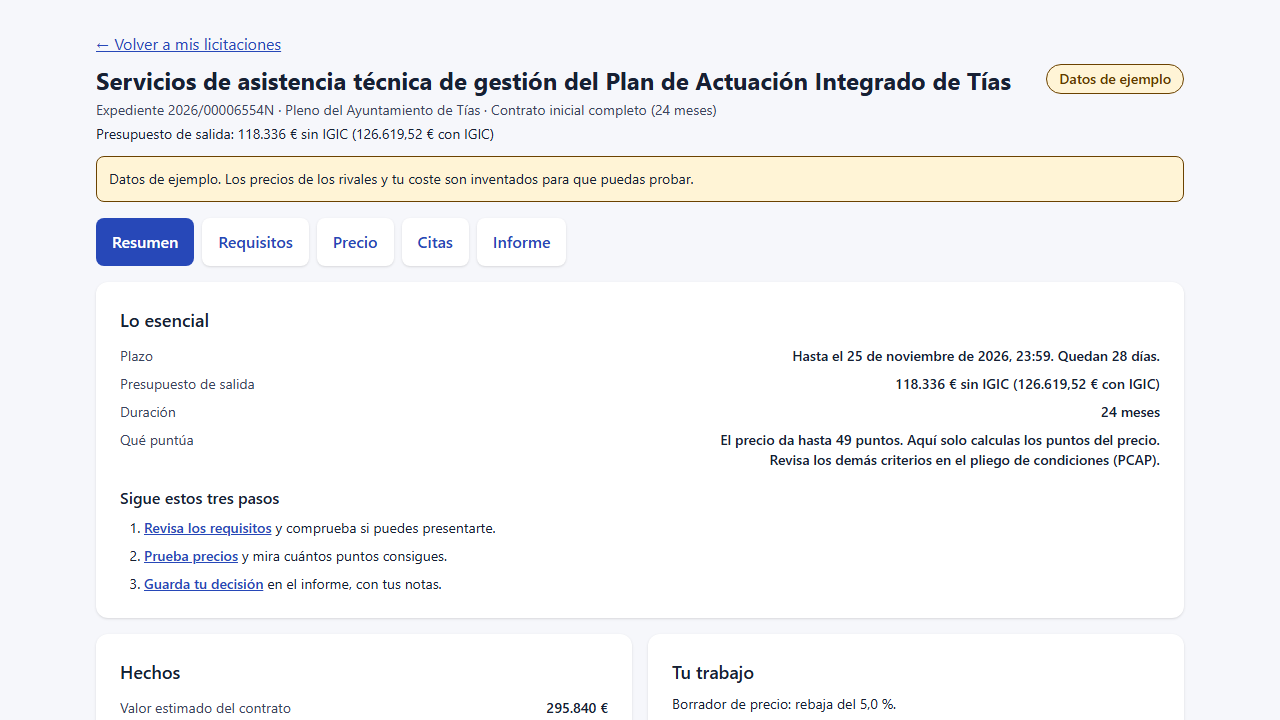
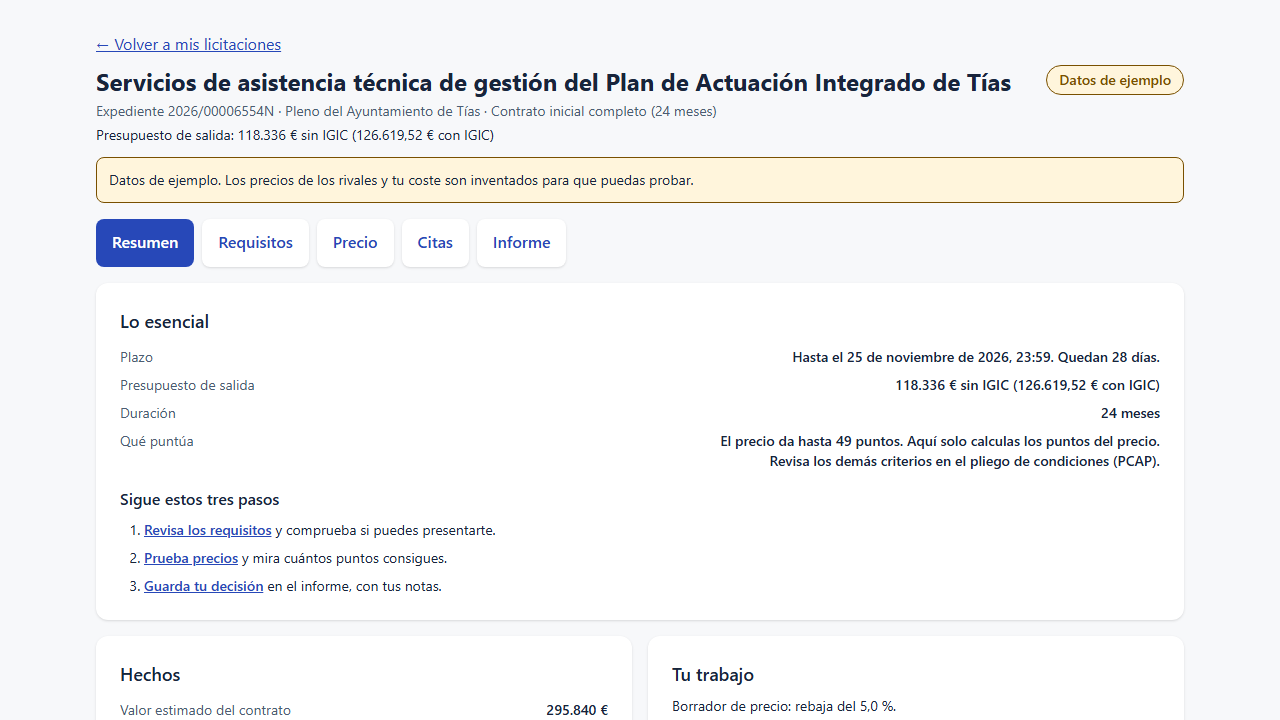
PKG-T14: tokens visuales prototipo + capturas regen

diff --git a/apps/web/src/styles.css b/apps/web/src/styles.css
@@ -1,20 +1,23 @@
 @import "tailwindcss";
 
 @theme {
-  --color-surface: #f6f7fb;
-  --color-ink: #172033;
-  --color-muted: #3a4560;
+  /* T14: ruta visual del diseno_anterior (prototipo :root). Sin piezas
+   * nuevas: solo valores. primary-hover/primary-ink no tienen
+   * equivalente en el prototipo y se conservan (contraste). */
+  --color-surface: #f7f8fa;
+  --color-ink: #18243b;
+  --color-muted: #4c5d73;
   --color-primary: #2748b8;
   --color-primary-hover: #1e3fa0;
   --color-primary-ink: #162d75;
-  --color-primary-soft: #e8efff;
-  --color-line: #e5e9f2;
-  --color-border: #c9d2e8;
-  --color-alert: #6b4200;
-  --color-warn-bg: #fff4d6;
-  --color-warn-ink: #5f3a00;
-  --color-error: #9c1f16;
-  --color-chart-profit: #1e7b3c;
+  --color-primary-soft: #edf1ff;
+  --color-line: #c8d1df;
+  --color-border: #c8d1df;
+  --color-alert: #795000;
+  --color-warn-bg: #fff5dc;
+  --color-warn-ink: #795000;
+  --color-error: #a52d28;
+  --color-chart-profit: #176046;
   --drawer-curve: cubic-bezier(0.32, 0.72, 0, 1);
 }
 
@@ -22,6 +25,7 @@ body {
   background: var(--color-surface);
   color: var(--color-ink);
   font-family: system-ui, -apple-system, "Segoe UI", sans-serif;
+  line-height: 1.55;
 }
 
 .tnum {
@@ -30,7 +34,7 @@ body {
 
 :focus-visible {
   outline: 3px solid var(--color-primary);
-  outline-offset: 2px;
+  outline-offset: 4px;
 }
 
 /* Long protocol tokens (hashes, decimals) must wrap inside table cells. */

diff --git a/tests/e2e/prototipo.spec.ts b/tests/e2e/prototipo.spec.ts
@@ -1,0 +1,26 @@
+import { expect, test } from "@playwright/test";
+import { installOfflineGuard, takeConsoleFailures } from "./helpers";
+
+// T14: la ruta visual del diseno_anterior vive en los estilos computados.
+// Sin piezas nuevas: solo tokens (color, interlineado, foco).
+test.afterEach(() => {
+  const failures = takeConsoleFailures();
+  expect(failures.consoleErrors, "console.error calls").toEqual([]);
+  expect(failures.pageErrors, "page errors").toEqual([]);
+});
+
+test("prototype tokens are live in computed styles", async ({ page }) => {
+  await installOfflineGuard(page);
+  await page.goto("/");
+  const body = page.locator("body");
+  await expect(body).toHaveCSS("background-color", "rgb(247, 248, 250)");
+  await expect(body).toHaveCSS("color", "rgb(24, 36, 59)");
+  await expect(body).toHaveCSS("line-height", "24.8px");
+  await expect(page.locator("header p").first()).toHaveCSS("color", "rgb(76, 93, 115)");
+
+  await page.keyboard.press("Tab");
+  const skip = page.getByRole("link", { name: "Saltar al contenido" });
+  await expect(skip).toBeFocused();
+  await expect(skip).toHaveCSS("outline-offset", "4px");
+  await expect(skip).toHaveCSS("outline-width", "3px");
+});

diff --git a/docs/verification-log.md b/docs/verification-log.md
@@ -895,3 +895,32 @@ Evidencia:
 - `ruff check`, `ruff format --check` (93 ficheros),
   `mypy` (50): verdes. E2E completa 66/66 (+1
   vigencia malla).
+
+## Plan Integral PKG-T14 — ruta visual diseno_anterior (28-oct, Windows)
+
+Fecha: 2026-10-28. Commit base: 9ca02de. Entorno: Windows,
+Python 3.14 (venv), Chromium. Sin red.
+
+Aceptación 1 (tokens, sin piezas nuevas): solo
+`styles.css` (@theme + body + foco): surface/ink/
+muted/soft/line/border/alert/warn/error/chart del
+`:root` del prototipo; primary idéntico; hover/ink
+oscuros conservados (sin equivalente, contraste);
+foco offset 4px; interlineado 1.55. Sin página
+nueva (sería una pieza; el listado del paquete era
+aspiracional). Decisión D28-3: base 18px del
+prototipo NO aplicada (reescala rem global;
+follow-up con QA visual si el autor la quiere).
+
+Aceptación 2 (demo y tour intactos): E2E 67/67
+(incluye tour + axe contraste), capturas 01–08
+regeneradas e inspeccionadas (escritorio+móvil
+legibles, sin desbordes).
+
+Evidencia:
+- Backend: 436 passed sin tocar (exit 0).
+- Front: vitest 210, eslint, tsc, build: verdes.
+- `ruff check`, `ruff format --check` (93 ficheros):
+  verdes (mypy no aplica: sin cambios py).
+- E2E completa 67/67 (+1 prototipo.spec: estilos
+  computados body/muted/foco).

diff --git a/docs/task-board.md b/docs/task-board.md
@@ -56,7 +56,11 @@ DoD per block in docs/MILESTONES.md; evidence in docs/verification-log.md.
 - 28-oct: PKG-T13 hecho (10×6, 422 con campos,
   banner vigencia); backend 436 + front 210 +
   E2E 66/66.
-  Siguiente: PKG-T14 (ruta visual diseno_anterior).
+- 28-oct: PKG-T14 hecho (tokens prototipo, 8 PNG
+  regen); backend 436 + front 210 + E2E 67/67.
+  D28-3: 18px no aplicado (follow-up con QA).
+  Siguiente: PKG-T15 + PKG-T10 en paralelo
+  (helpers, worktrees .worktrees/).
 
 ## Sesión 28-oct (tour + malla + contrato; sin commit, pendiente autor)
 
